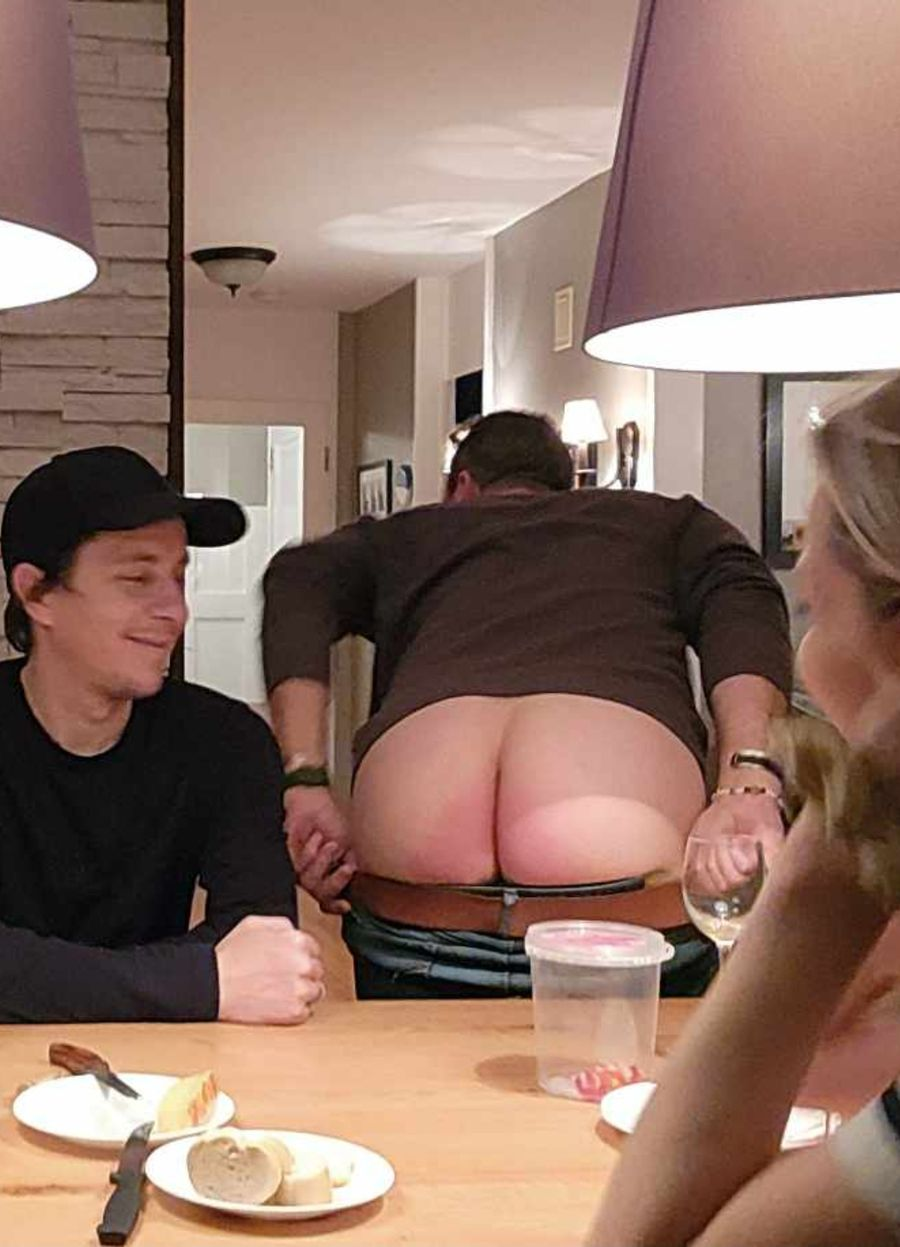
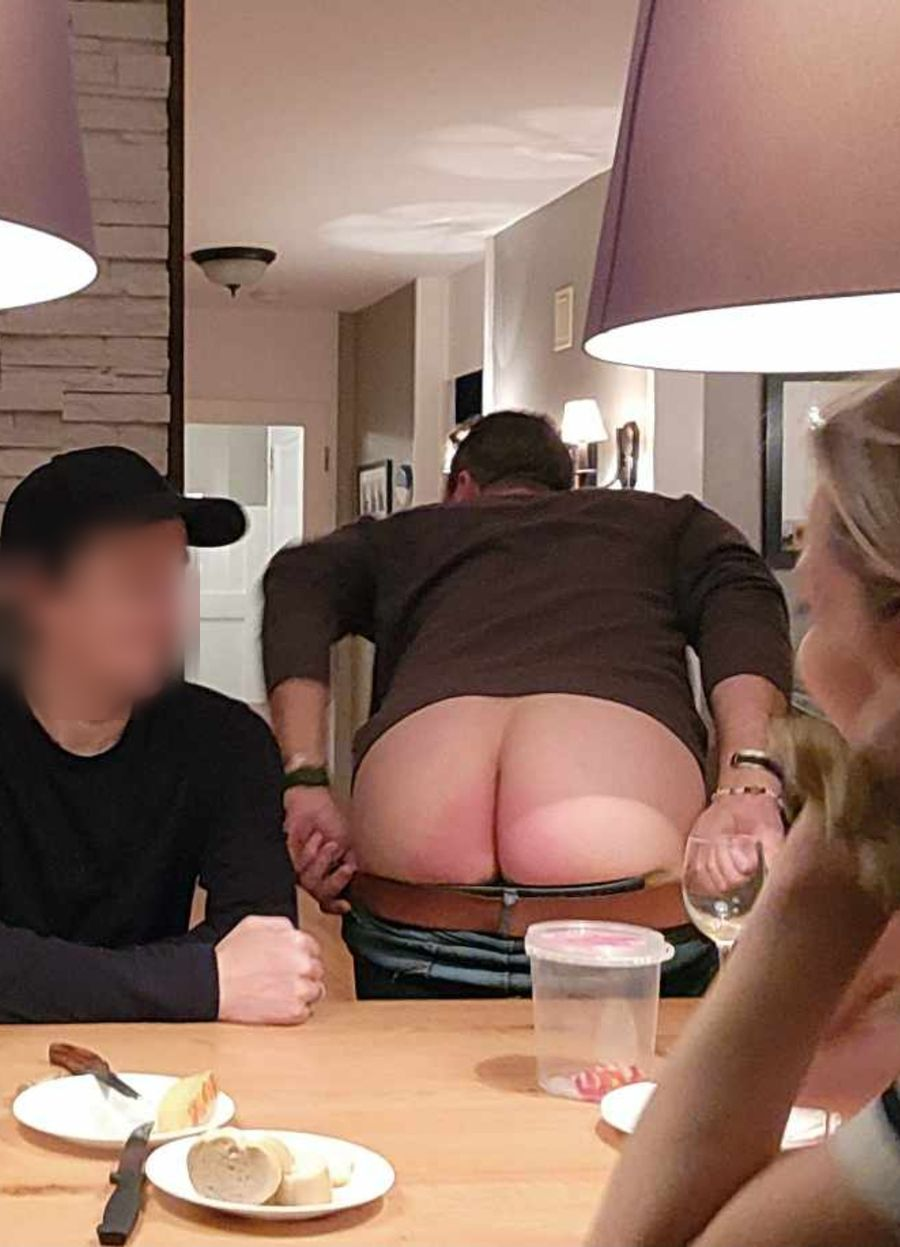
Photo de Steve : visage du gars à gauche flouté
Claude-Session: https://claude.ai/code/session_012h6BEtBB7pEFRqEgvYAMT2

Changed region(s): [[0.0, 0.3962, 0.2489, 0.579]]

diff --git a/index.html b/index.html
@@ -438,7 +438,7 @@ footer .wrap{display:grid;gap:6px;border-top:1px solid var(--line);padding-top:1
 
 <div class="steve" id="steve" hidden role="dialog" aria-label="Lâche pas mon Steve">
   <figure class="steve-in">
-    <img src="steve.jpg" alt="Photo souvenir">
+    <img src="steve.jpg?v=2" alt="Photo souvenir">
     <figcaption>Lâche pas mon Steve</figcaption>
     <span class="steve-bar"></span>
   </figure>
